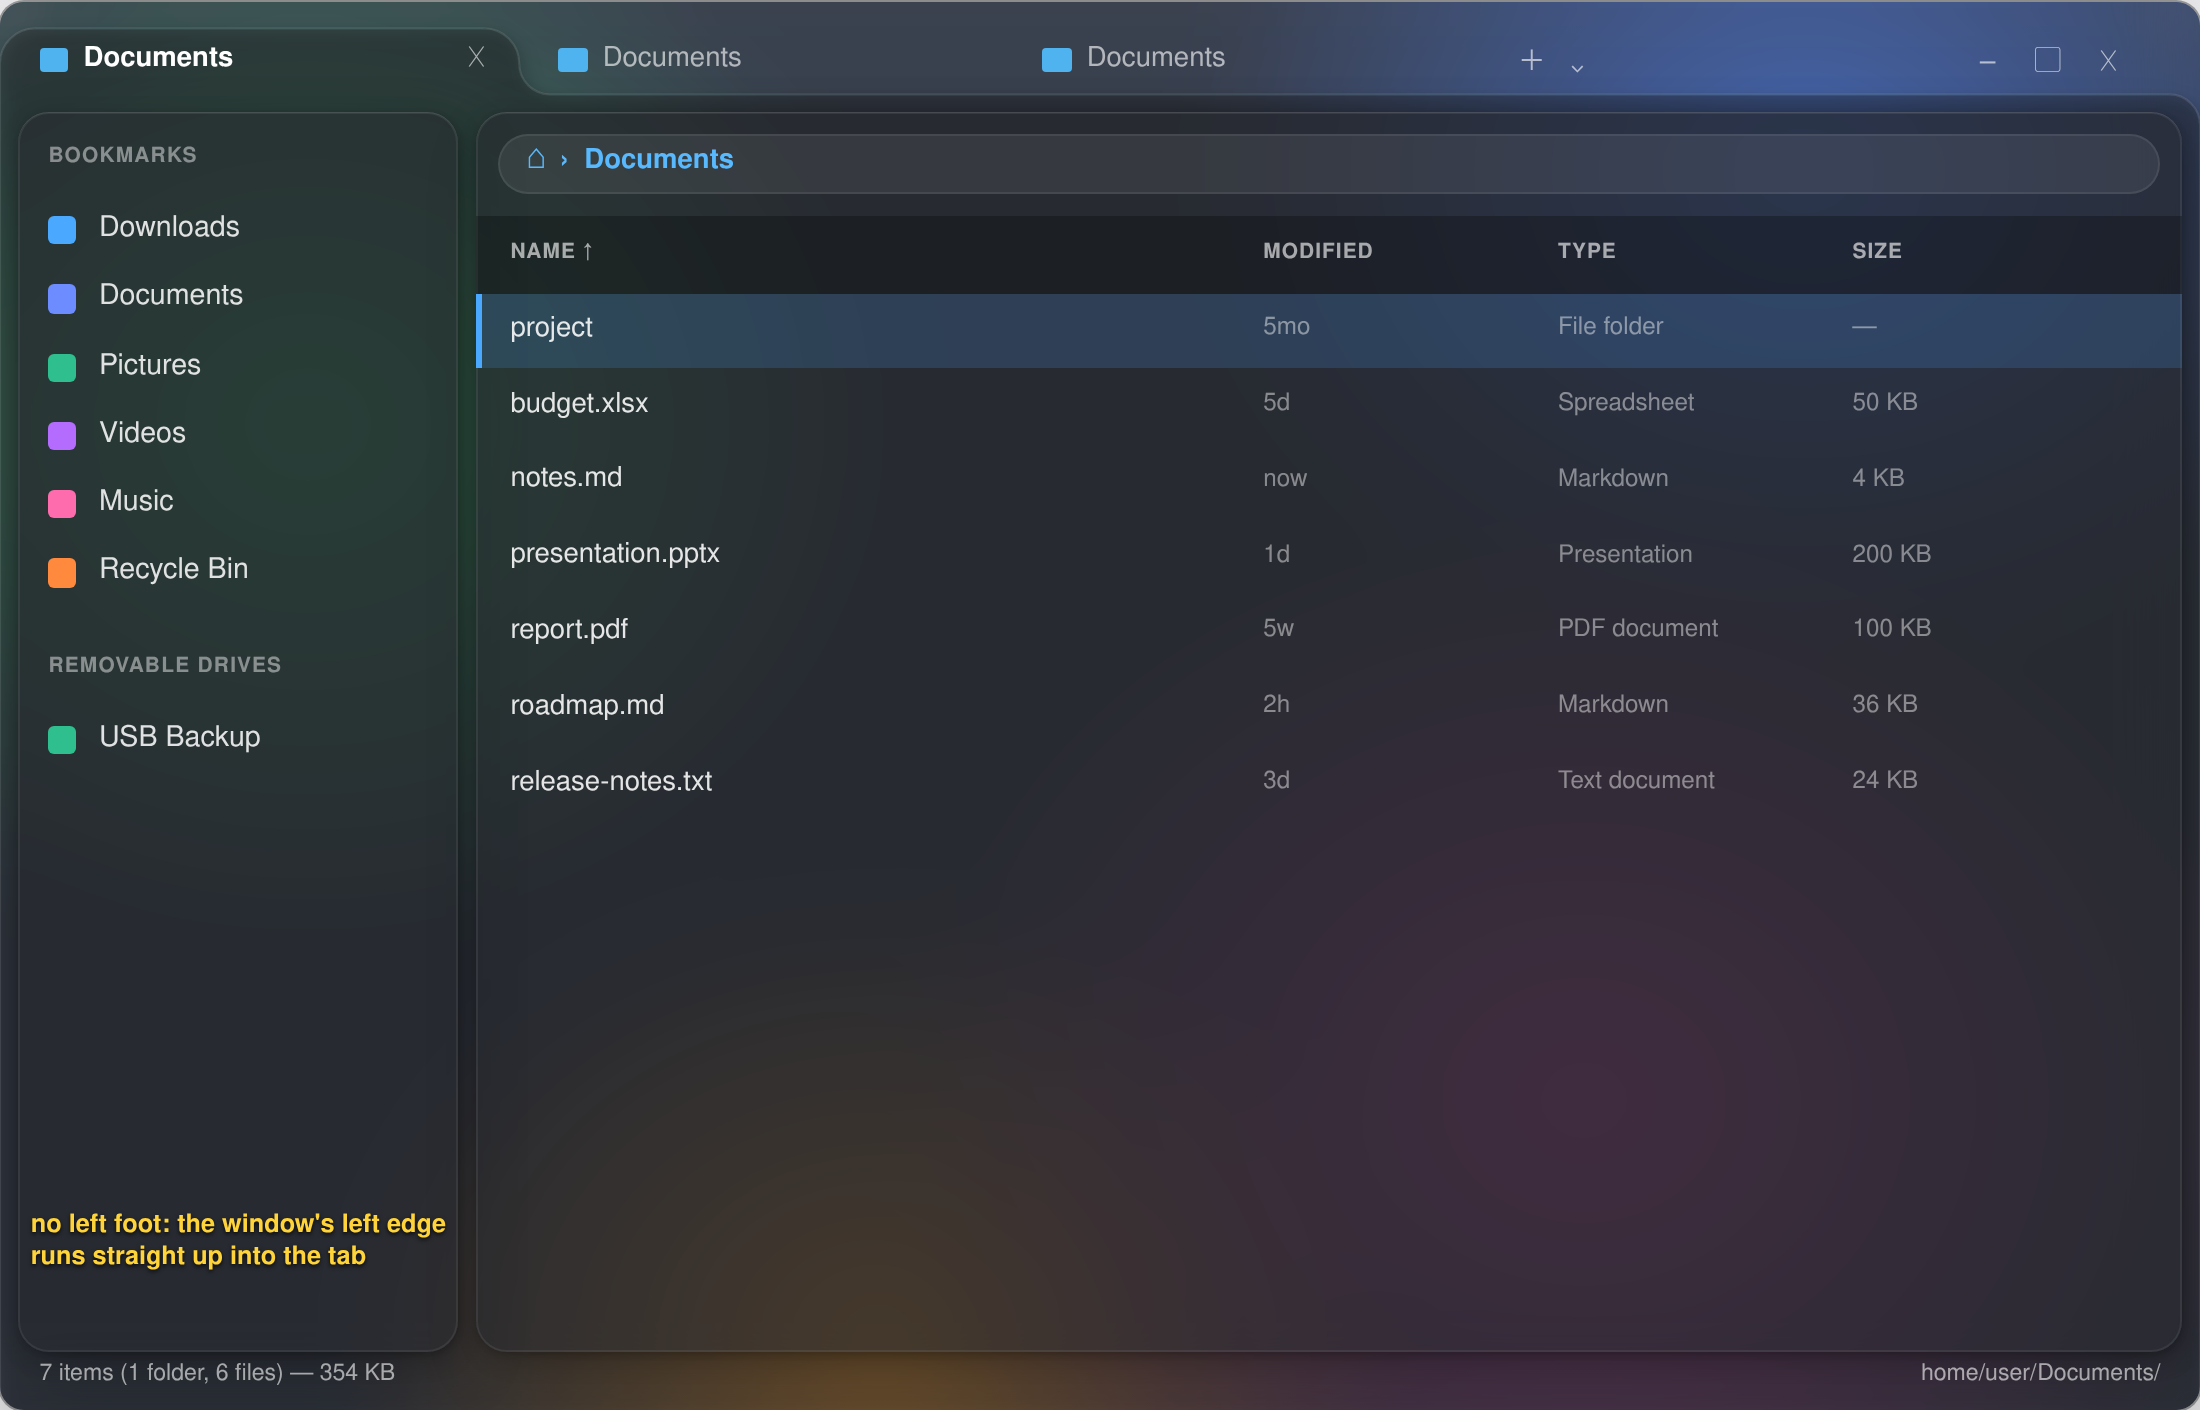
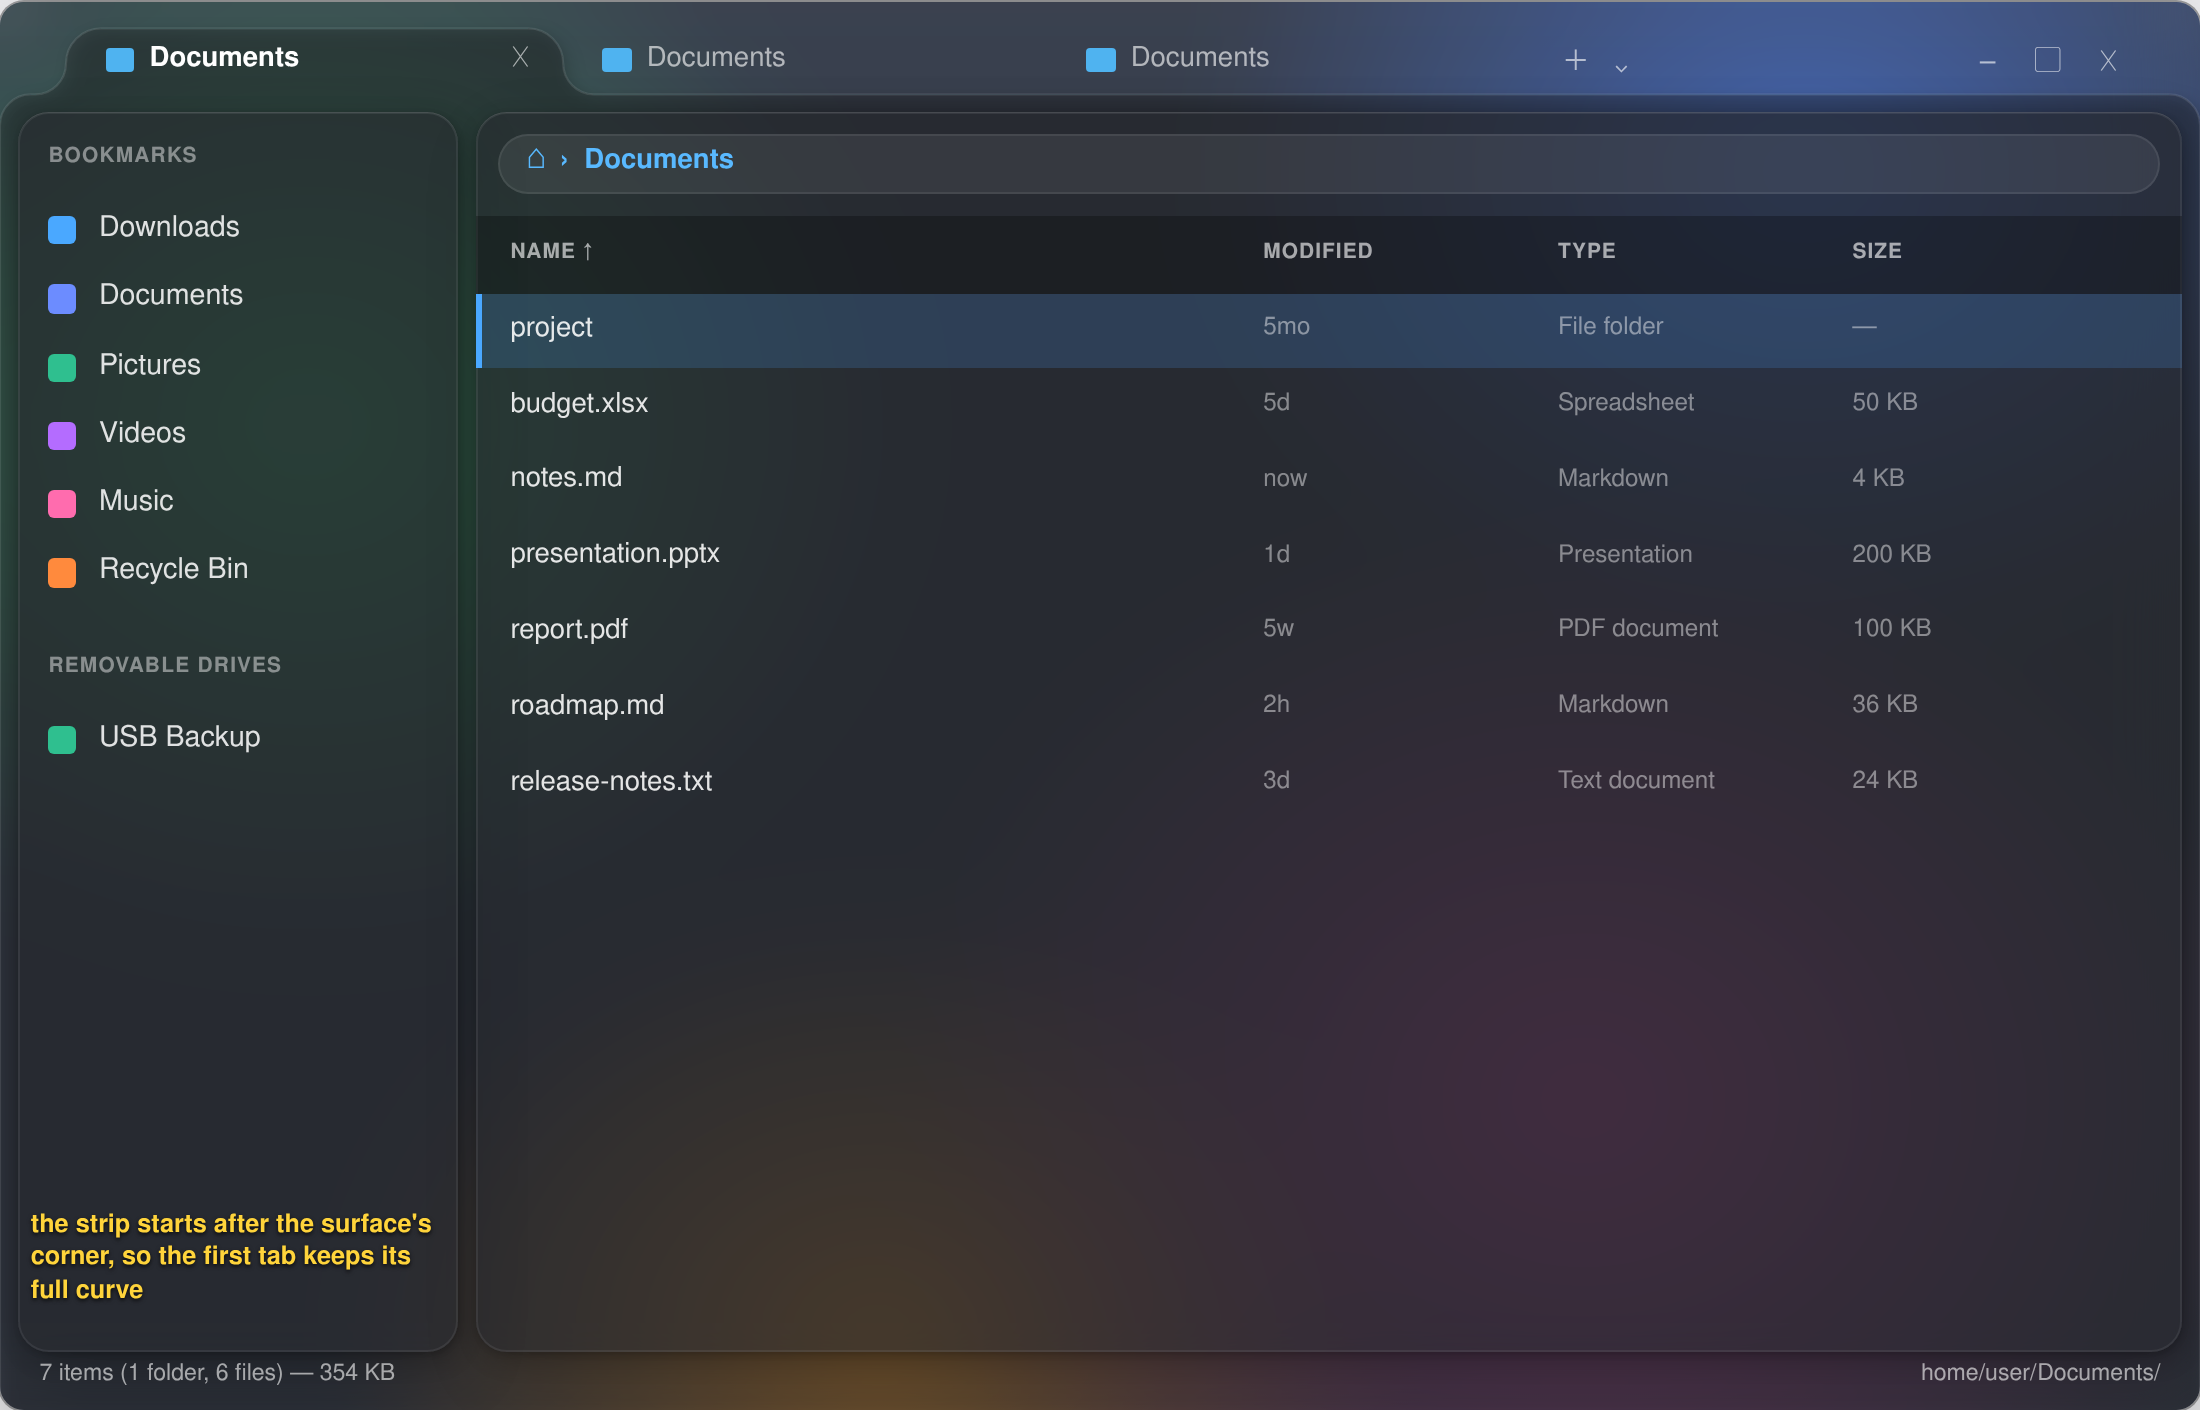
docs: first tab keeps its full curve in tab-owns-window mocks (#1785)

diff --git a/docs/design/tab-owns-window/mocks.html b/docs/design/tab-owns-window/mocks.html
@@ -104,7 +104,7 @@
   </ul>
   <figure><div class="win" id="m-new"></div><figcaption><b>Proposed, dark, Miller columns off.</b> Middle tab active. The sidebar sits on the tab's surface like every other island.</figcaption></figure>
   <figure><div class="win" id="m-new-miller"></div><figcaption><b>Proposed, dark, sidebar shown, Miller columns on.</b> As today, they sit inside the main island.</figcaption></figure>
-  <figure><div class="win" id="m-new-first"></div><figcaption><b>Proposed, Windows/Linux, first tab active.</b> The window controls are on the right there, so the strip starts at the window's left edge and the first tab sits right over the sidebar. Flush with the window edge it has no left foot: the window's left edge runs straight up into the tab. On macOS the strip starts after the traffic lights, so every tab keeps both feet.</figcaption></figure>
+  <figure><div class="win" id="m-new-first"></div><figcaption><b>Proposed, Windows/Linux, first tab active.</b> The window controls are on the right there, so the strip starts just past the surface's rounded corner: the first tab sits over the sidebar and still shows its whole left curve. On macOS the strip starts after the traffic lights.</figcaption></figure>
   <figure><div class="win" id="m-new-split"></div><figcaption><b>Proposed, split panes.</b> Each pane is its own island on the tab's surface.</figcaption></figure>
   <figure><div class="win" id="m-new-nosidebar"></div><figcaption><b>Proposed, sidebar hidden, Miller columns on.</b> As today, the columns become their own island on the left.</figcaption></figure>
   <figure><div class="win light" id="m-new-light"></div><figcaption><b>Proposed, light theme, Miller columns on.</b></figcaption></figure>
@@ -239,9 +239,11 @@ render("m-new-miller", {
   islands: [sideIsl, mainIsl(true)],
 });
 render("m-new-first", {
-  tabs: [{ x: 0, w: 236 }, { x: 236, w: 220 }, { x: 456, w: 220 }], active: 0, frame: C, controls: "win",
+  // The strip starts at the surface's corner radius plus the tab's foot, so
+  // even the first tab shows its whole left curve.
+  tabs: [{ x: 30, w: 226 }, { x: 256, w: 220 }, { x: 476, w: 220 }], active: 0, frame: C, controls: "win",
   islands: [sideIsl, mainIsl(false)],
-  notes: [{ t: "no left foot: the window's left edge runs straight up into the tab", x: 14, y: H - STATUS_H - 64, w: 190 }],
+  notes: [{ t: "the strip starts after the surface's corner, so the first tab keeps its full curve", x: 14, y: H - STATUS_H - 64, w: 190 }],
 });
 const splitW = (W - IN - mainX - IN) / 2;
 render("m-new-split", {
